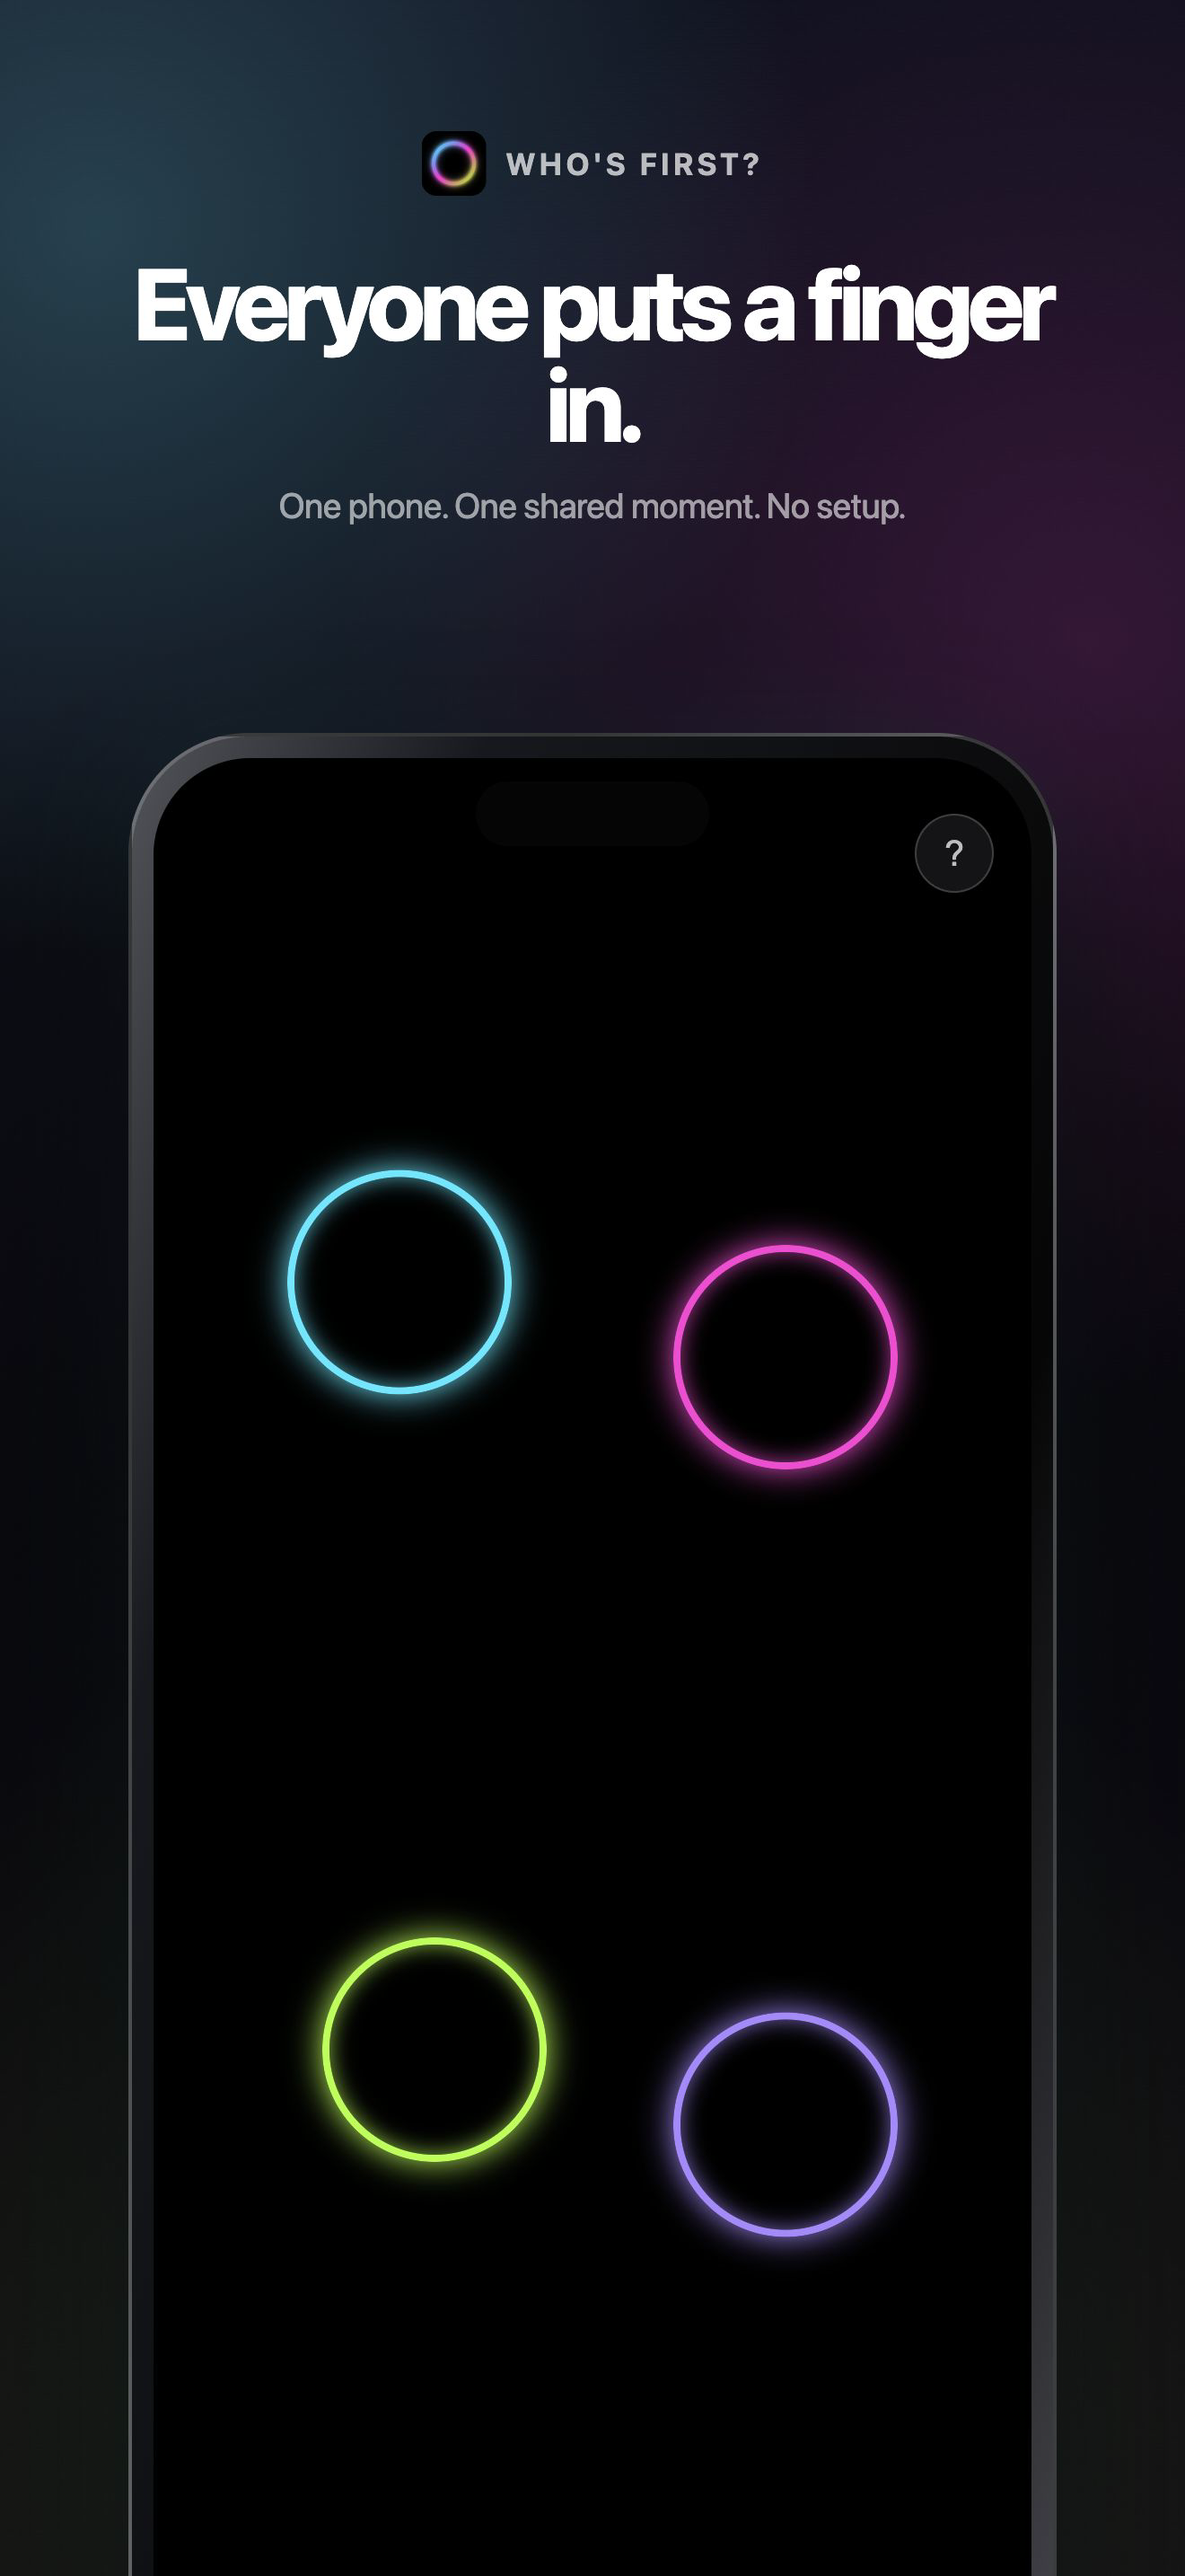
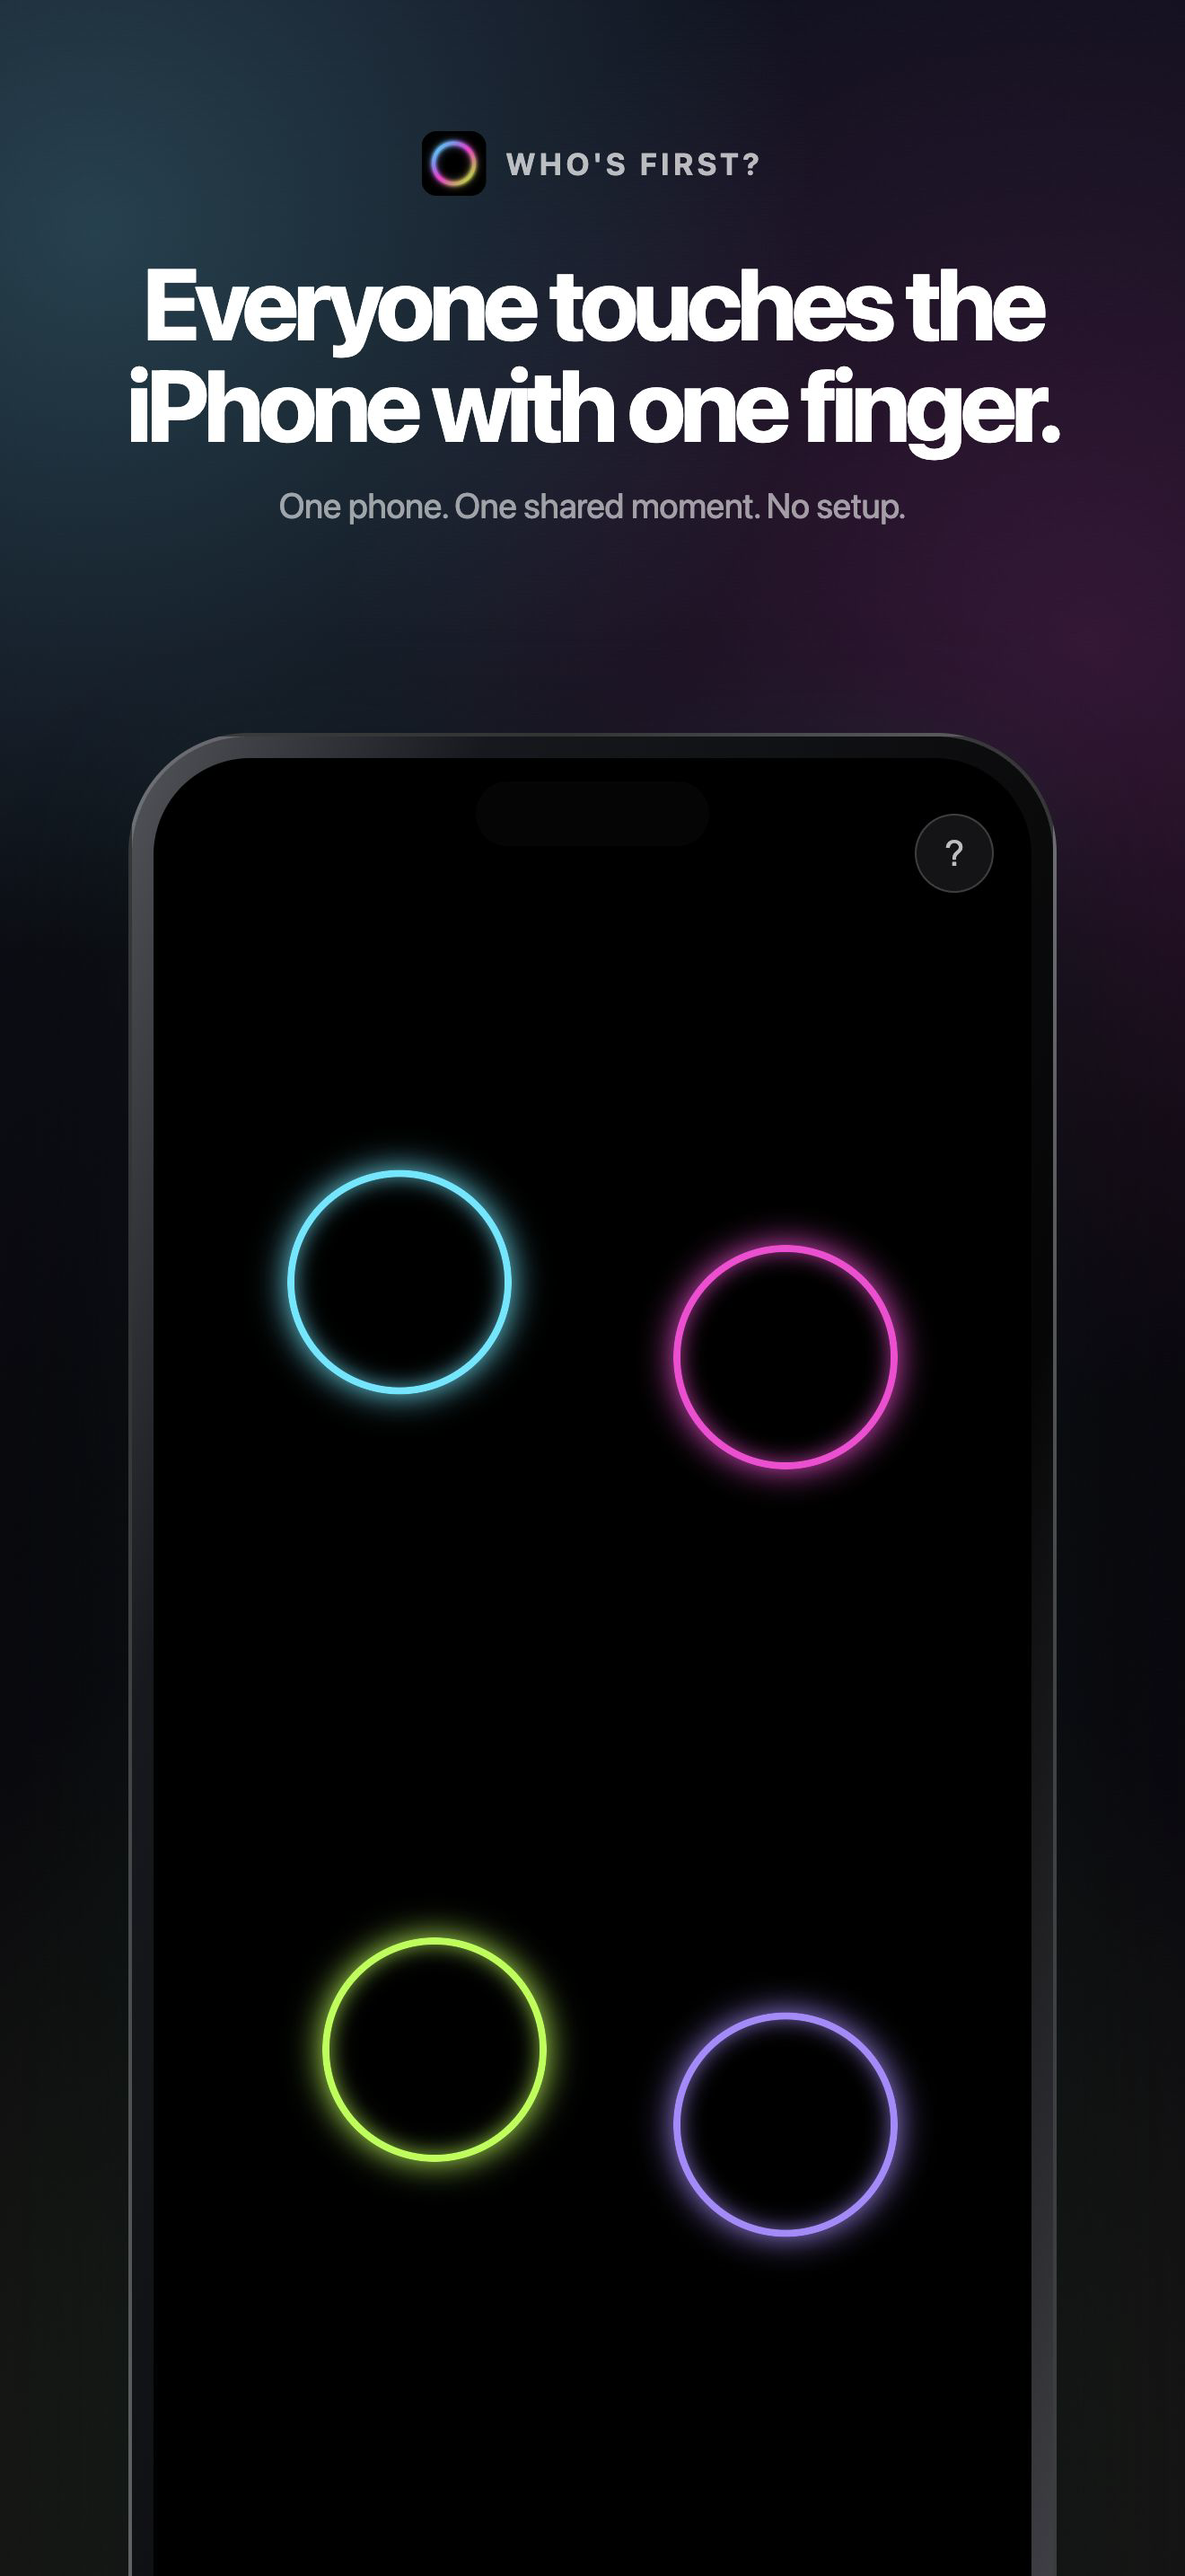
Refine first App Store screenshot

Changed region(s): [[0.0932, 0.0931, 0.9008, 0.1862]]

diff --git a/scripts/app-store-screenshots/screenshot.js b/scripts/app-store-screenshots/screenshot.js
@@ -1,7 +1,7 @@
 (() => {
   const slides = {
     everyone: {
-      headline: 'Everyone puts a finger in.',
+      headline: 'Everyone touches the iPhone with one finger.',
       subhead: 'One phone. One shared moment. No setup.',
       hint: '',
       rings: [

diff --git a/scripts/app-store-screenshots/index.html b/scripts/app-store-screenshots/index.html
@@ -41,6 +41,6 @@
       </div>
     </section>
   </main>
-  <script src="screenshot.js"></script>
+  <script src="screenshot.js?v=3"></script>
 </body>
 </html>

diff --git a/docs/app-store-readiness.md b/docs/app-store-readiness.md
@@ -20,19 +20,19 @@ The intended product remains deliberately narrow: choose one person to go first.
 | Signing | Valid Apple Development and Apple Distribution identities plus development and App Store profiles for team `2LZJMJR6V8` |
 | Apple registration | `com.brianrenshaw.fingerchooser` is registered under paid team `2LZJMJR6V8` |
 | Branding | Neon-ring native icon, touch icon, and black launch screen replace Capacitor defaults |
-| Privacy | No accounts, ads, analytics, tracking, storage, or network calls; app privacy manifest declares no collection |
+| Privacy | No accounts, ads, analytics, tracking, storage, or network calls; app privacy manifest declares no collection and “Data Not Collected” is published in App Store Connect |
 | Public pages | Privacy and support are live on GitHub Pages and list `contact@foliohtml.com` |
 | In-app disclosure | Help/About dialog links to privacy and support from the main screen |
 | Dependencies | Production and full npm audits report zero known vulnerabilities |
 | App Store listing | Name, subtitle, description, promotional text, keywords, URLs, copyright, content rights, category, and screenshots are populated |
+| Pricing and availability | Free in all 175 storefronts; Mac and Apple Vision Pro compatibility distribution disabled for an iPhone-only release |
+| Review contact | Private App Review and TestFlight contact details are complete in App Store Connect |
 | TestFlight | 1.0 (build 1) uploaded, processed as `VALID`, export compliance recognized as false, and “What to Test” populated |
 
 ## What still blocks submission
 
-1. **Complete the UI-only App Store confirmations.** In App Store Connect, publish “No, we do not collect data,” confirm Free pricing and worldwide availability, and save the review contact. These controls are not exposed by the current public API.
-2. **Finish the review contact.** Apple requires a phone number for the private App Review and TestFlight review contact. The email is `contact@foliohtml.com`; a phone number still needs to be supplied.
-3. **Run current physical-device QA.** Re-test two through five fingers, late joiners, finger removal, replay, background/foreground reset, audio, and native haptics on at least one current iPhone. Simulator and desktop browsers cannot validate true multi-touch or Taptic behavior.
-4. **Approve submission.** The final Submit for Review action remains a deliberate owner approval.
+1. **Run current physical-device QA.** Re-test two through five fingers, late joiners, finger removal, replay, background/foreground reset, audio, and native haptics on at least one current iPhone. Simulator and desktop browsers cannot validate true multi-touch or Taptic behavior.
+2. **Approve submission.** The final Submit for Review action remains a deliberate owner approval.
 
 ## Current Apple requirements that matter
 
@@ -92,15 +92,14 @@ All three URLs are live on GitHub Pages and return HTTP 200.
 
 Use actual app captures, without Safari chrome:
 
-1. **Everyone in** — three or four distinct neon rings; caption: “Everyone puts a finger in.”
+1. **Everyone in** — three or four distinct neon rings; caption: “Everyone touches the iPhone with one finger.”
 2. **Feel the countdown** — active pulsing rings; caption: “Hold on. The tension builds.”
 3. **We have a winner** — one bright winner ring and the replay guidance; caption: “That finger goes first.”
 4. Optional help view — caption: “No setup. No accounts. Just choose.”
 
 ## Shortest path from here
 
-1. Sign in to App Store Connect and complete the remaining UI-only privacy, pricing, availability, and phone fields.
-2. Install and test the processed TestFlight build on a physical iPhone.
-3. Review the finished product page and approve the final Submit for Review action.
+1. Install and test the processed TestFlight build on a physical iPhone.
+2. Review the finished product page and approve the final Submit for Review action.
 
 Apple accepted build 1 with no errors and one forward-looking warning: beginning in spring 2027, new uploads must target iOS 15 or later. Version 1.0 currently supports iOS 14 and remains valid for submission in 2026.

diff --git a/app-store-assets/metadata.md b/app-store-assets/metadata.md
@@ -84,13 +84,13 @@ Expected rating: 4+
 
 ## Screenshot captions
 
-1. `Everyone puts a finger in.`
+1. `Everyone touches the iPhone with one finger.`
 2. `Hold on. The tension builds.`
 3. `One fair choice. That's who's first.`
 4. `No setup. No accounts. Just choose.`
 
 Screenshots are prepared for the 6.9-inch iPhone portrait slot at 1320 × 2868 pixels.
 
-## Submission-only field still needed
+## Private review contact
 
-Apple requires a phone number for the App Review contact. Do not invent or publish one; add Brian's preferred review-contact number immediately before submission.
+The required App Review and TestFlight contact details are complete in App Store Connect. The private phone number is intentionally not duplicated in this repository.
